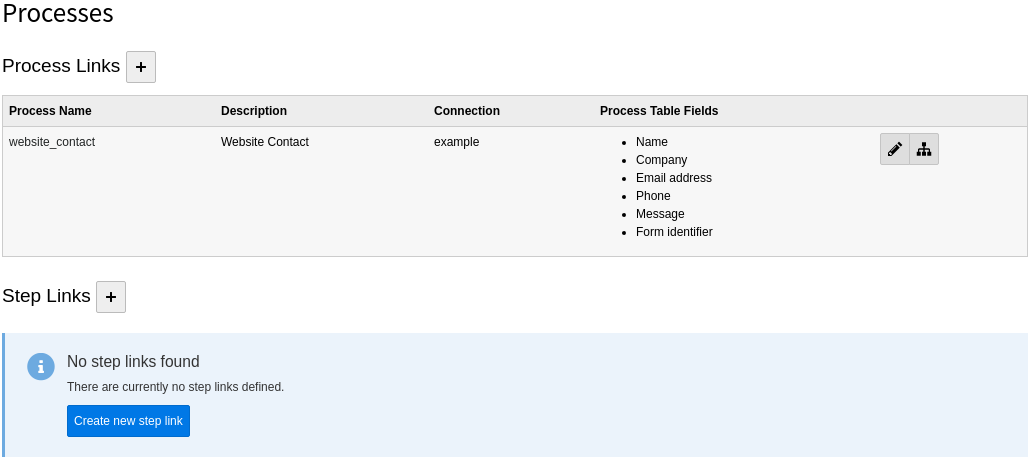
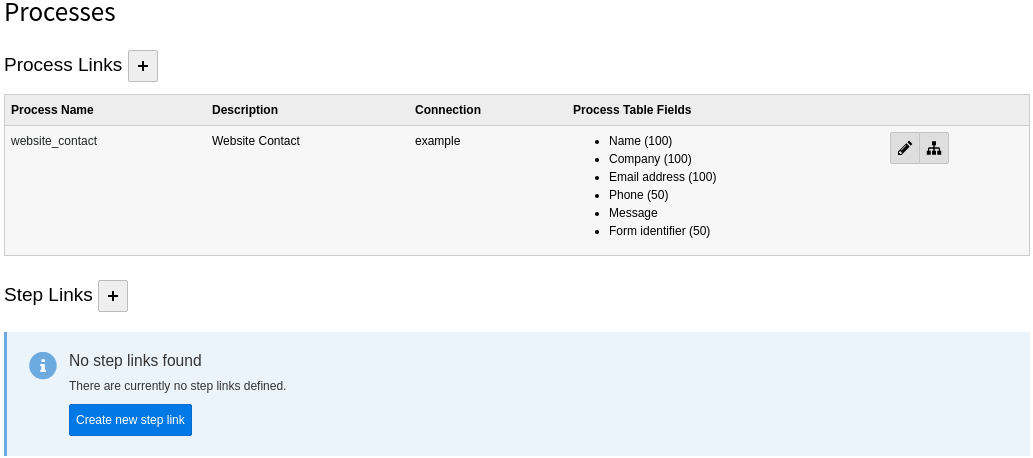
[TASK] Add field size for process table fields with type "text"

diff --git a/Resources/Private/Templates/Backend/List.html b/Resources/Private/Templates/Backend/List.html
@@ -58,6 +58,9 @@
                                                     <f:then>{field.description}</f:then>
                                                     <f:else>{field.name}</f:else>
                                                 </f:if>
+                                                <f:if condition="{field.type} == 1 && {field.fieldSize}">
+                                                    ({field.fieldSize})
+                                                </f:if>
                                             </li>
                                         </f:for>
                                     </ul>

diff --git a/Classes/Transfer/Transmitter.php b/Classes/Transfer/Transmitter.php
@@ -14,11 +14,15 @@ use Brotkrueml\JobRouterClient\Client\IncidentsClientDecorator;
 use Brotkrueml\JobRouterClient\Model\Incident;
 use Brotkrueml\JobRouterConnector\Domain\Model\Connection;
 use Brotkrueml\JobRouterConnector\RestClient\RestClientFactory;
+use Brotkrueml\JobRouterProcess\Domain\Model\Process;
+use Brotkrueml\JobRouterProcess\Domain\Model\Processtablefield;
 use Brotkrueml\JobRouterProcess\Domain\Model\Step;
 use Brotkrueml\JobRouterProcess\Domain\Model\Transfer;
 use Brotkrueml\JobRouterProcess\Domain\Repository\StepRepository;
 use Brotkrueml\JobRouterProcess\Domain\Repository\TransferRepository;
+use Brotkrueml\JobRouterProcess\Enumeration\ProcessTableFieldTypeEnumeration;
 use Brotkrueml\JobRouterProcess\Exception\ConnectionNotFoundException;
+use Brotkrueml\JobRouterProcess\Exception\ProcessTableFieldNotFoundException;
 use Brotkrueml\JobRouterProcess\Exception\StepNotFoundException;
 use Brotkrueml\JobRouterProcess\Exception\ProcessNotFoundException;
 use Psr\Log\LoggerAwareInterface;
@@ -112,7 +116,7 @@ class Transmitter implements LoggerAwareInterface
     private function transmitTransfer(Transfer $transfer): void
     {
         $step = $this->getStep($transfer->getStepUid());
-        $incident = $this->createIncidentFromTransferItem($step->getStepNumber(), $transfer);
+        $incident = $this->createIncidentFromTransferItem($step, $transfer);
 
         $client = $this->getRestClientForStep($step);
         $response = $client->request(
@@ -200,10 +204,10 @@ class Transmitter implements LoggerAwareInterface
         return $this->restClientFactory = new RestClientFactory();
     }
 
-    private function createIncidentFromTransferItem(int $step, Transfer $transfer): Incident
+    private function createIncidentFromTransferItem(Step $step, Transfer $transfer): Incident
     {
         $incident = new Incident();
-        $incident->setStep($step);
+        $incident->setStep($step->getStepNumber());
         if (!empty($transfer->getInitiator())) {
             $incident->setInitiator($transfer->getInitiator());
         }
@@ -227,10 +231,41 @@ class Transmitter implements LoggerAwareInterface
             $processTable = \json_decode($transfer->getProcesstable(), true);
 
             foreach ($processTable ?? [] as $name => $value) {
+                $configuredProcessTableField = $this->getProcessTableField($name, $step->getProcess());
+
+                if ($configuredProcessTableField->getType() === ProcessTableFieldTypeEnumeration::TEXT
+                    && $configuredProcessTableField->getFieldSize()
+                ) {
+                    $value = \substr($value, 0, $configuredProcessTableField->getFieldSize());
+                }
+
                 $incident->setProcessTableField($name, $value);
             }
         }
 
         return $incident;
+    }
+
+    private function getProcessTableField(string $name, Process $process): Processtablefield
+    {
+        $configuredProcessTableFields = $process->getProcesstablefields()->toArray();
+
+        $processTableField = \array_filter($configuredProcessTableFields, function ($field) use ($name) {
+            /** @var Processtablefield $field */
+            return $name === $field->getName();
+        });
+
+        if (empty($processTableField)) {
+            throw new ProcessTableFieldNotFoundException(
+                \sprintf(
+                    'Process table field "%s" is not configured in process link "%s"',
+                    $name,
+                    $process->getName()
+                ),
+                1582053551
+            );
+        }
+
+        return \array_shift($processTableField);
     }
 }

diff --git a/Configuration/TCA/tx_jobrouterprocess_domain_model_processtablefield.php b/Configuration/TCA/tx_jobrouterprocess_domain_model_processtablefield.php
@@ -9,13 +9,14 @@ return [
         'cruser_id' => 'cruser_id',
         'delete' => 'deleted',
         'sortby' => 'sorting',
+        'type' => 'type',
         'rootLevel' => 1,
         'searchFields' => 'name,description',
         'iconfile' => 'EXT:jobrouter_process/Resources/Public/Icons/tx_jobrouterprocess_domain_model_processtablefields.svg',
         'hideTable' => true,
     ],
     'interface' => [
-        'showRecordFieldList' => 'name, description, type',
+        'showRecordFieldList' => 'name, description, type, field_size',
     ],
     'columns' => [
         'pid' => [
@@ -61,11 +62,11 @@ return [
         'type' => [
             'exclude' => true,
             'label' => 'LLL:EXT:jobrouter_process/Resources/Private/Language/Database.xlf:tx_jobrouterprocess_domain_model_processtablefields.type',
+            'onChange' => 'reload',
             'config' => [
                 'type' => 'select',
                 'renderType' => 'selectSingle',
                 'items' => [
-                    ['', ''],
                     [
                         'LLL:EXT:jobrouter_process/Resources/Private/Language/Database.xlf:tx_jobrouterprocess_domain_model_processtablefields.type.text',
                         \Brotkrueml\JobRouterProcess\Enumeration\ProcessTableFieldTypeEnumeration::TEXT
@@ -78,18 +79,39 @@ return [
                 'eval' => 'required',
             ],
         ],
+        'field_size' => [
+            'exclude' => true,
+            'label' => 'LLL:EXT:jobrouter_process/Resources/Private/Language/Database.xlf:tx_jobrouterprocess_domain_model_processtablefields.field_size',
+            'config' => [
+                'type' => 'input',
+                'size' => 5,
+                'max' => 5,
+                'range' => [
+                    'lower' => 0,
+                ],
+                'eval' => 'int',
+                'default' => 0,
+            ],
+        ],
     ],
     'types' => [
-        '0' => [
+        '1' => [
             'showitem' => '
                 --div--;LLL:EXT:core/Resources/Private/Language/Form/locallang_tabs.xlf:general,
                 --palette--;;nameDescription,
-                --palette--;;type,
+                --palette--;;textType,
+            '
+        ],
+        '2' => [
+            'showitem' => '
+                --div--;LLL:EXT:core/Resources/Private/Language/Form/locallang_tabs.xlf:general,
+                --palette--;;nameDescription,
+                type,
             '
         ],
     ],
     'palettes' => [
         'nameDescription' => ['showitem' => 'name, description'],
-        'type' => ['showitem' => 'type'],
+        'textType' => ['showitem' => 'type, field_size'],
     ],
 ];

diff --git a/Classes/Domain/Model/Processtablefield.php b/Classes/Domain/Model/Processtablefield.php
@@ -23,6 +23,9 @@ class Processtablefield extends AbstractEntity
     /** @var int */
     protected $type = 0;
 
+    /** @var int */
+    protected $fieldSize = 0;
+
     public function getName(): string
     {
         return $this->name;
@@ -51,5 +54,15 @@ class Processtablefield extends AbstractEntity
     public function setType(int $type): void
     {
         $this->type = $type;
+    }
+
+    public function getFieldSize(): int
+    {
+        return $this->fieldSize;
+    }
+
+    public function setFieldSize(int $fieldSize): void
+    {
+        $this->fieldSize = $fieldSize;
     }
 }

diff --git a/Classes/Exception/ProcessTableFieldNotFoundException.php b/Classes/Exception/ProcessTableFieldNotFoundException.php
@@ -1,0 +1,15 @@
+<?php
+declare(strict_types=1);
+
+namespace Brotkrueml\JobRouterProcess\Exception;
+
+/*
+ * This file is part of the "jobrouter_process" extension for TYPO3 CMS.
+ *
+ * For the full copyright and license information, please read the
+ * LICENSE.txt file that was distributed with this source code.
+ */
+
+class ProcessTableFieldNotFoundException extends \RuntimeException
+{
+}

diff --git a/Documentation/module.rst b/Documentation/module.rst
@@ -65,16 +65,23 @@ General
 
    :aspect:`Name (required)`
 
-   The name of the process table field as defined in the JobRouter Designer.
+      The name of the process table field as defined in the JobRouter Designer.
 
    :aspect:`Description (optional)`
 
-   A description of the process table field.
+      A description of the process table field.
 
    :aspect:`Type (required)`
 
-   Select the column type (for now are available: `Text`, `Integer`). When using
-   the form finisher, the value is casted to this type.
+      Select the column type (for now are available: `Text`, `Integer`). When
+      using the form finisher, the value is casted to this type.
+
+   :aspect:`Field Size (required)`
+
+      This option is only shown with type :guilabel:`Text`. Enter the size
+      of the field. When :ref:`transmitting <configuration-transmit-command>`
+      the fields the values are truncated if too long to prevent errors when
+      starting an instance. To disable the truncation enter `0`.
 
    .. note::
 
